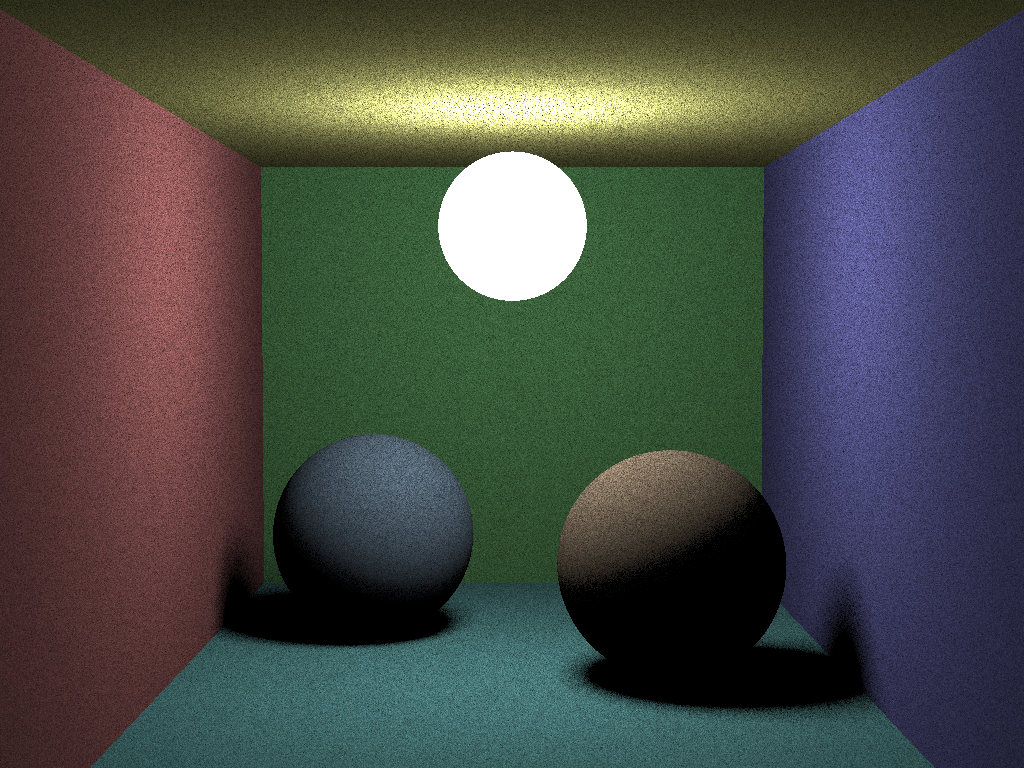
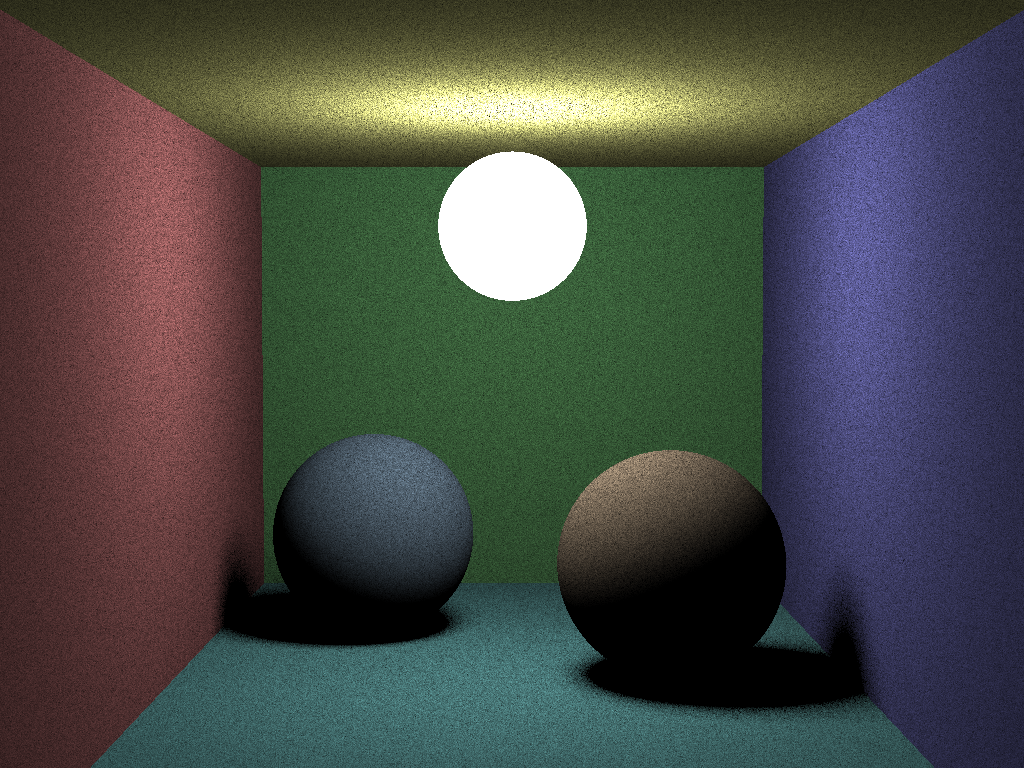
Correcciones tarea 4

diff --git a/doc/tarea4/sphere.h b/doc/tarea4/sphere.h
@@ -1,3 +1,6 @@
+#ifndef SPHEREH
+#define SPHEREH
+
 #include "vec.h"
 #include "ray.h"
 #pragma once
@@ -18,66 +21,37 @@ public:
     {
         // se asignan los valores de la formula general cuadratica "la del chicharronero"
 
-        // Vector oc = ray.o - p;
-        // double a = ray.d.dot(ray.d);
-        // double b = oc.dot(ray.d);
-        // double c = oc.dot(oc) - r * r;
-        // double discriminant = b * b - a * c;
+        Vector oc = ray.o - p;
+        Vector a = ray.d;
+        double t = 0.0;
+        double tol = 0.00001;
+        double b = oc.dot(ray.d);
+        double c = oc.dot(oc) - r * r;
+        double discriminant = b * b - c;
         // // solo si el valor de discriminant es positivo hacemos la raiz cuadrada para ahorrar tiempo de computo
         // // de otra forma retorna -1
-        // if (discriminant < 0)
-        // {
-        //     return 0.0;
-        // }
-        // else
-        // {
-        //     double tplus = (-b + sqrt(discriminant)) / a;
-        //     double tminus = (-b - sqrt(discriminant)) / a;
-        //     double t;
-
-        //     // ambos positivos
-        //     if (tminus > 0 && tplus > 0)
-        //     {
-        //         t = std::min(tminus, tplus);
-        //     }
-        //     // tminus positivo, tplus negativo
-        //     else if (tminus > 0 && tplus < 0)
-        //     {
-        //         t = tminus;
-        //     }
-        //     // tminus negativo, tplus positivo
-        //     else if (tminus < 0 && tplus > 0)
-        //     {
-        //         t = tplus;
-        //     }
-        //     else
-        //     {
-        //         t = 0;
-        //     }
-        //     return t;
-        // }
-
-        // regresar distancia si hay intersección
-        // regresar 0.0 si no hay interseccion
-        Vector op = ray.o - p;
-        Vector d = ray.d;
-        double t;
-        double tol = 0.00001;
-        double b = op.dot(d);
-        double ce = op.dot(op) - r * r;
-        double disc = b * b - ce;
-        if (disc < 0)
+        if (discriminant < tol)
+        {
             return 0.0;
+        }
         else
-            disc = sqrt(disc);
-        t = -b - disc;
+        {
+            discriminant = sqrt(discriminant);
+        }
+        // tminus
+        t = -b - discriminant;
+
+        // asegurarnos que t sea positivo
         if (t > tol)
             return t;
         else
-            t = -b + disc;
+            // tplus
+            t = -b + discriminant;
+        // asegurarnos que t sea positivo
         if (t > tol)
             return t;
         else
-            return 0;
+            return 0.0;
     }
 };
+#endif
